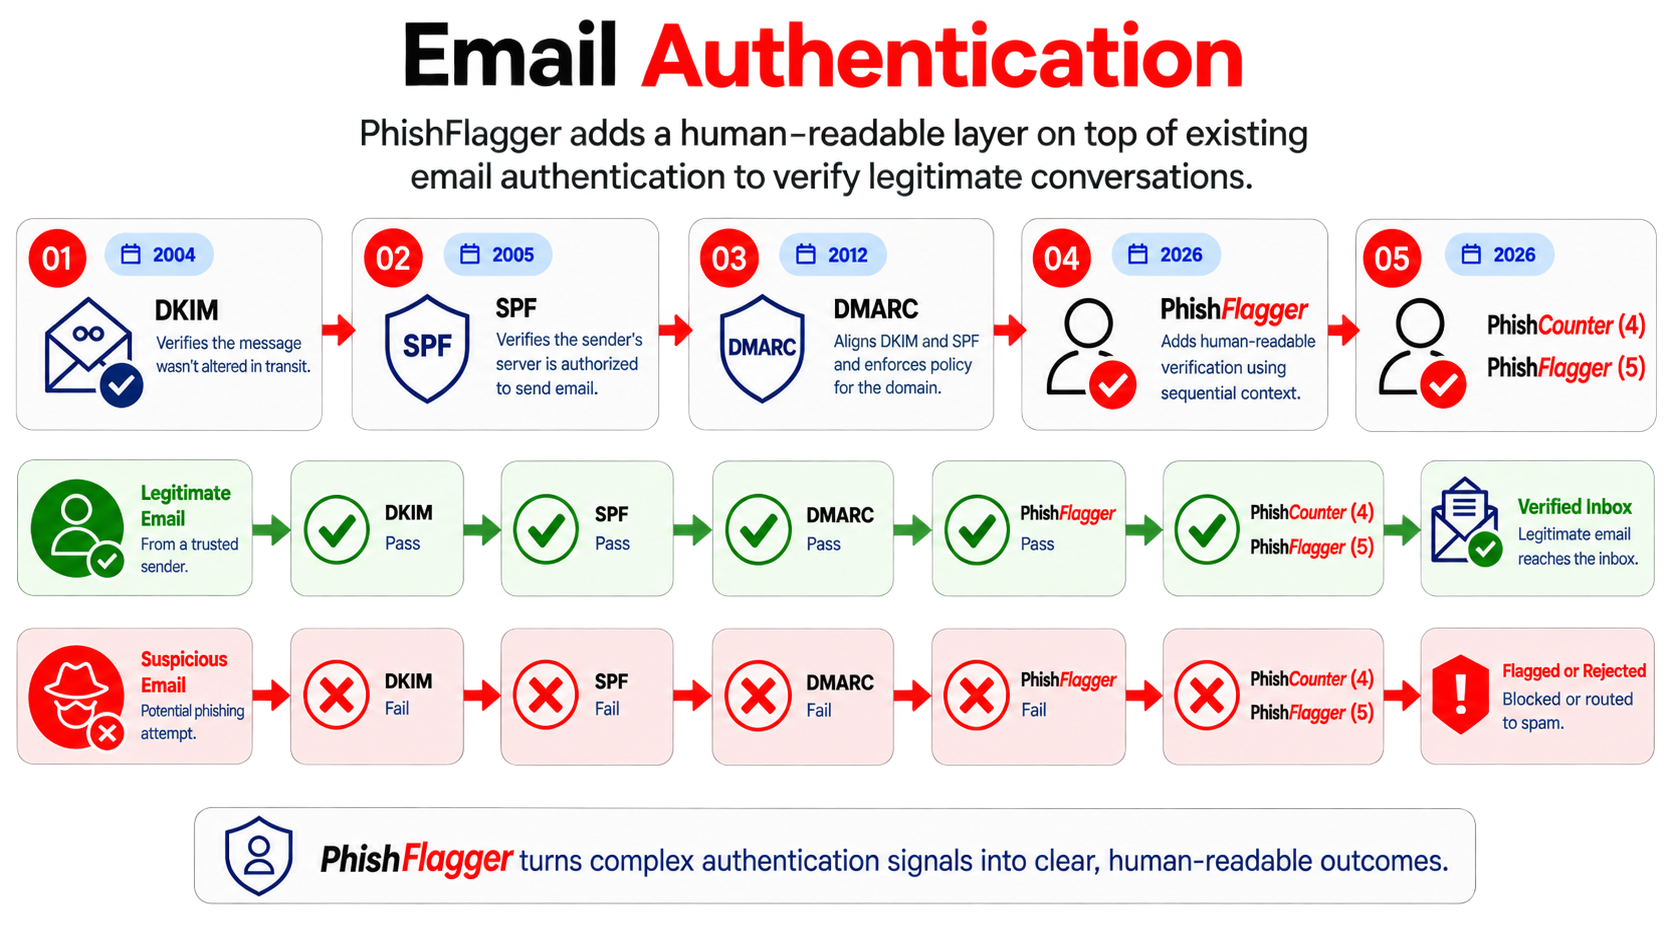
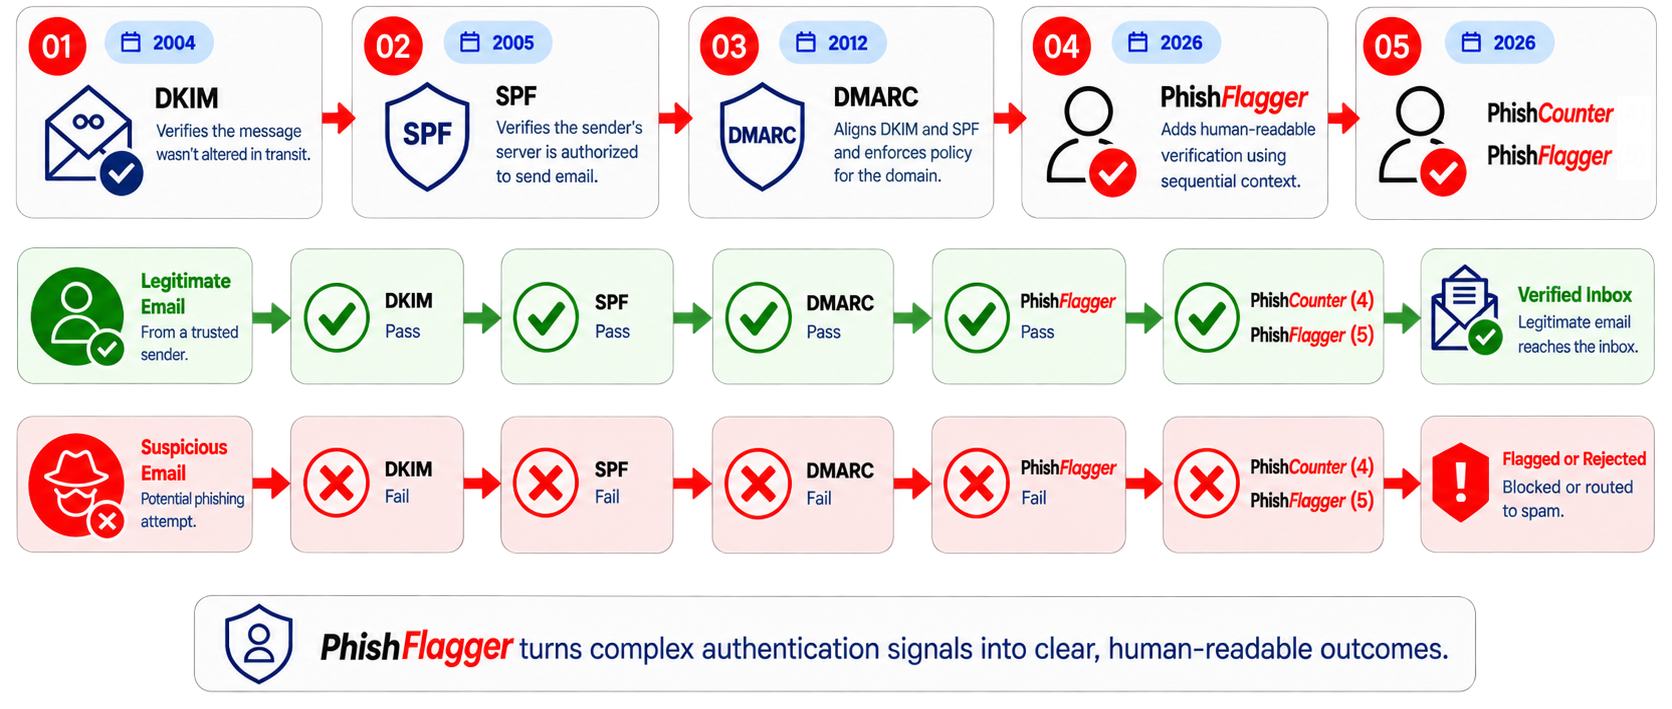
Home: remove bullets box, enlarge Email Authentication / Digital Verification row
- Delete the "Human-compatible solution / Bring back common sense" bullets
  box (Section 3)
- Widen the diagram row (Section 4) from 60% to 85% width so both cards
  render larger

Changed region(s): [[0.0, 0.0, 0.9952, 0.8688], [0.1244, 0.8378, 0.8708, 0.9929]]

diff --git a/src/pages/Home.jsx b/src/pages/Home.jsx
@@ -91,38 +91,9 @@ export default function Home() {
       </div>
     </section>
 
-    {/* ===== Section 3 — What is PhishFlagger? (part of Hero ^0001 pane) ===== */}
-    <section className="relative w-full px-4 pt-0 pb-6 sm:px-6 sm:pt-0 sm:pb-8">
-      <div className="mx-auto flex max-w-content justify-center">
-        <div className="w-full max-w-[420px]">
-          <ul className="space-y-2 rounded-2xl bg-[#dfe3ea] p-5 text-[13px] leading-[1.45] text-ink shadow-[0_4px_10px_-4px_rgba(15,23,42,0.15)] sm:space-y-3 sm:p-5 sm:text-[15px] sm:leading-[1.4]">
-            <li className="flex gap-4">
-              <span className="mt-[11px] h-1.5 w-1.5 shrink-0 rounded-full bg-ink" />
-              <span>
-                Human-compatible solution that validates legitimate
-                communications and highlights fraud attempts.
-              </span>
-            </li>
-            <li className="flex gap-4">
-              <span className="mt-[11px] h-1.5 w-1.5 shrink-0 rounded-full bg-ink" />
-              <span>
-                Bring back common sense by adding a unique sequential
-                number, the{" "}
-                <em className="italic font-semibold">
-                  <span className="text-ink">Phish</span>
-                  <span className="text-brand">Counter</span>
-                </em>
-                , visible to the user.
-              </span>
-            </li>
-          </ul>
-        </div>
-      </div>
-    </section>
-
     {/* ===== Section 4 — Domain protection (part of Hero ^0001 pane) ===== */}
     <section className="relative w-full px-4 pt-6 pb-10 sm:px-6 sm:pt-8 sm:pb-12">
-      <div className="mx-auto grid w-3/5 max-w-[960px] grid-cols-2 items-center gap-2 sm:gap-8 lg:gap-8">
+      <div className="mx-auto grid w-[85%] max-w-[1360px] grid-cols-2 items-center gap-2 sm:gap-8 lg:gap-8">
         {/* Left — email authentication diagram */}
         <div className="flex w-full flex-col items-center">
           <div className="flex aspect-[3/2] w-full items-center justify-center overflow-hidden rounded-lg bg-transparent shadow-[0_4px_14px_-4px_rgba(15,23,42,0.15)]">
